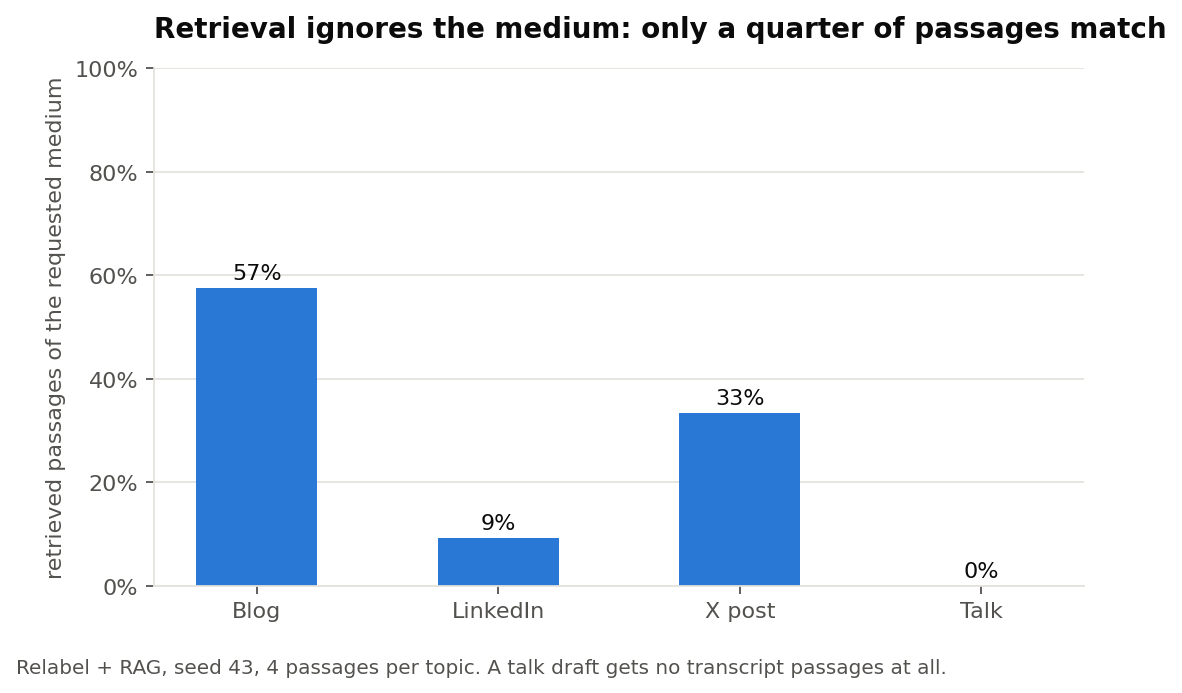
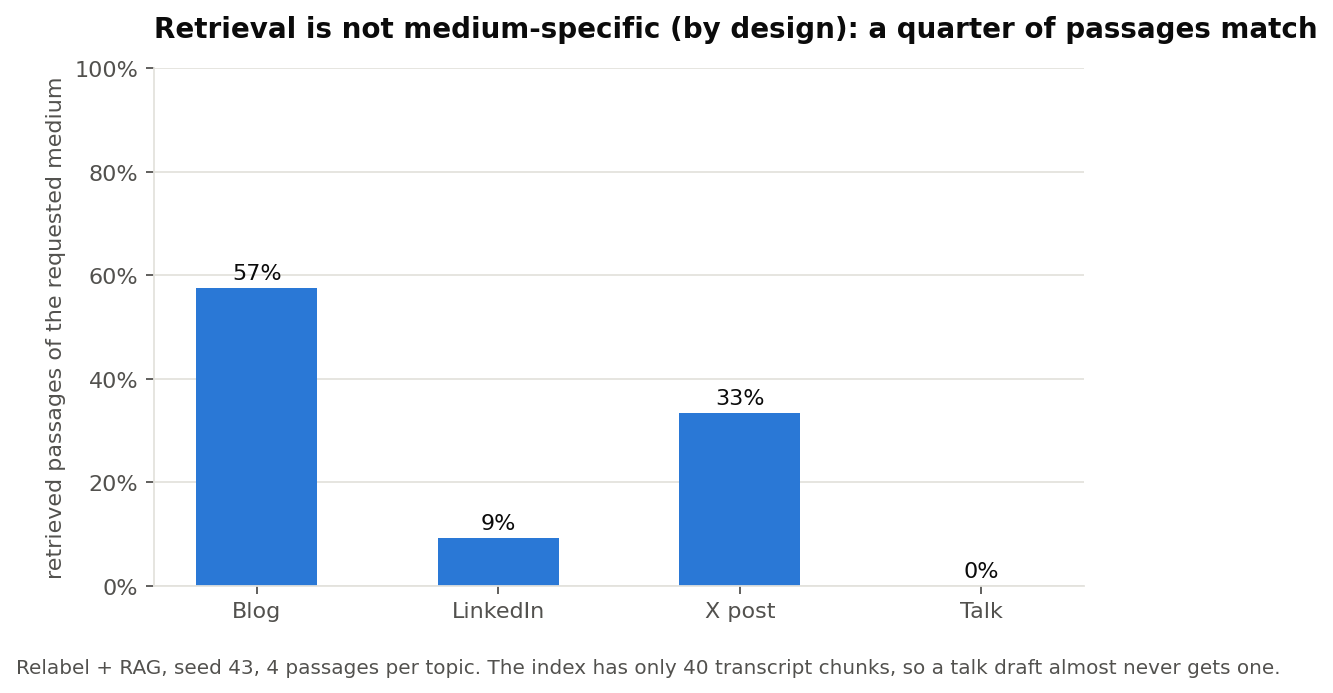
PUK-34: describe the medium mismatch as Kevin's design, not a weakness
Kevin's v1 retriever deliberately does not filter by the requested medium (the code
says factual evidence is the same top-k from the whole train-only collection, and our
saved run parameters record medium_filter false). RAG v2 has the same documents and
identical top-4 rankings, with no medium filter either. His own audit
(EXP-20261004-009) shows the same mix we measured.

The page, report footnotes, chart title and a test now say that retrieval is not
medium-specific by design, that talk gets no transcript passages because the index holds
only 40 transcript chunks (blog 9,255, X 11,185, LinkedIn 713), and that the effect on
quality is untested. The "cheapest change targeting a weakness" wording is replaced by
the two readings of "type-specific RAG" (a medium filter on the retrieved facts, or the
existing medium-specific style examples) as experiments to run.

diff --git a/eval_tools/rag_effect.py b/eval_tools/rag_effect.py
@@ -241,9 +241,10 @@ def to_markdown(cost: list[dict], effect: dict, label_a: str, label_b: str) -> s
             lines.append(f"| {title} | " + " | ".join(cells) + " |")
         lines += [
             "",
-            "How to read the last two rows: retrieval here searches by topic only and ignores the requested medium, so every "
-            "medium of a topic gets the same passages. A low fit means a LinkedIn or X draft is grounded mostly in blog text, "
-            "and a talk draft gets no transcript passages at all.",
+            "How to read the last two rows: by design (Kevin's v1 retriever) retrieval searches by topic only and does not filter "
+            "by the requested medium, so every medium of a topic gets the same passages. A low fit means a LinkedIn or X draft is "
+            "grounded mostly in blog text. The index holds only 40 transcript chunks, so a talk draft almost never gets one. "
+            "A low fit is a description of that design, not by itself a defect.",
         ]
     return "\n".join(lines) + "\n"
 

diff --git a/docs/evaluation/figures/make_figures.py b/docs/evaluation/figures/make_figures.py
@@ -177,9 +177,9 @@ def passage_fit_figure(out: Path) -> None:
     ax.set_axisbelow(True)
     for side in ("top", "right"):
         ax.spines[side].set_visible(False)
-    ax.set_title("Retrieval ignores the medium: only a quarter of passages match", loc="left", fontsize=12.5,
+    ax.set_title("Retrieval is not medium-specific (by design): a quarter of passages match", loc="left", fontsize=12.5,
                  fontweight="bold", color=INK, pad=14)
-    fig.text(0.01, -0.02, "Relabel + RAG, seed 43, 4 passages per topic. A talk draft gets no transcript passages at all.",
+    fig.text(0.01, -0.02, "Relabel + RAG, seed 43, 4 passages per topic. The index has only 40 transcript chunks, so a talk draft almost never gets one.",
              fontsize=9, color=INK2)
     fig.savefig(out, dpi=160, bbox_inches="tight")
     plt.close(fig)

diff --git a/tests/test_rag_effect.py b/tests/test_rag_effect.py
@@ -211,7 +211,7 @@ def test_report_names_both_runs_and_says_how_to_read_the_fit_rows(tmp_path):
     assert "What On changed and what it cost, compared with Off" in text
     assert "counted once per topic" in text
     assert "Retrieved passages that fit the requested medium" in text
-    assert "ignores the requested medium" in text
+    assert "does not filter by the requested medium" in text
 
 
 def test_report_without_retrieval_has_no_retrieval_section():

diff --git a/docs/evaluation/RAG_BEFORE_AFTER.md b/docs/evaluation/RAG_BEFORE_AFTER.md
@@ -7,7 +7,7 @@ The Linear task has no written description, so the scope here (a defined metric 
 ## The short answer
 
 1. **RAG makes the prompt about five times longer** (70 to 360 tokens) and adds about **28 to 33 seconds of evidence extraction per topic** (14 to 17 minutes for the 30 topics, about 8 seconds per draft). It does **not** change how much the model writes: draft length and the share of drafts that hit the length limit show no clear change.
-2. **Retrieval ignores the requested medium.** Only about 25% of retrieved passages are of the medium that was asked for: 57% for blogs, 33% for X, 9% for LinkedIn and **0% for talks**. Retrieval searches by topic only, so a LinkedIn or talk draft is grounded mostly in blog and X passages.
+2. **Retrieval is not medium-specific, and that is Kevin's design.** His v1 retriever fetches factual evidence from the whole index once per topic and shares it across the four mediums (his own audit, `EXP-20261004-009`, shows the same mix we measured). As a result only about 25% of retrieved passages are of the medium that was asked for: 57% for blogs, 33% for X, 9% for LinkedIn and **0% for talks**. Talk gets none because the index holds only **40 transcript chunks** (out of 21,193: blog 9,255, X 11,185, LinkedIn 713). Whether this matters for quality has not been tested.
 3. **About half of the RAG drafts contain numbers the evidence does not support** (47% to 55%). Copying a retrieved passage is rare (2% to 3%), and 80% to 82% of the claims the model proposed survive verification.
 4. **Put with PUK-28: in this setup RAG adds cost and shows no measurable benefit on our metrics.** The quality side showed no consistent change (writing quality, task adherence, stance), and the small blog voice drop mostly disappears at equal length.
 
@@ -66,11 +66,11 @@ The base run and the PersonaRAG run were made through Ollama, which does not sav
 - **The unsupported-number rate is a diagnostic, not a verdict.** In `METRIC_MAP.md` (gaps G5 and G6) the number check flags about half of the drafts while the claim judge says 99% of claims are supported, so the two truth checks disagree. And there is no "before" value, because a draft without retrieval has no evidence to compare against.
 - **Seed 42 used different hardware** than seeds 43 and 44, which affects the evidence seconds and a little of the evidence text.
 - **"No measurable benefit" is about our metrics and this panel.** Thirty topics is a development panel, and our metrics do not measure factual accuracy against the outside world.
-- **The medium mismatch is measured, not yet tested as a cause.** We have not run retrieval filtered by medium, so we cannot say how much quality it would recover.
+- **The medium mismatch is by design, and its effect is untested.** Kevin's pipeline deliberately does not filter by medium (the facts are meant to be shared). We have not run retrieval filtered by medium, so we cannot say whether it would help, and the small LinkedIn (713) and talk (40) pools suggest the passages could become less relevant, not more.
 
 ## A concrete next step (not done here)
 
-Retrieval searches by topic only. Trying it with a medium filter (blog passages for a blog draft, transcripts for a talk) is the cheapest change that targets a measured weakness. It is a pipeline change, so it belongs with Kevin or Andreah. If they try it, `eval_tools.rag_effect` and `eval_tools.compare` will show whether it helped.
+Kevin asked us to try "type-specific RAG". That can mean two things: filtering the retrieved facts by the requested medium (a small patch to his retriever, which currently ignores the medium on purpose), or giving medium-specific style examples (his `--fixed-style` option, off by default, which has two fixed examples each for blog, LinkedIn and X and none for talk). Either is an experiment to run, not a known fix. `eval_tools.rag_effect` (passage fit, distance, cost) and `eval_tools.compare` (quality) will show whether it helped, and they should also show whether the small pools make the filtered passages less relevant.
 
 ## How to rebuild every number
 

diff --git a/docs/evaluation/examples/rag_effect/relabel_seed42.md b/docs/evaluation/examples/rag_effect/relabel_seed42.md
@@ -48,4 +48,4 @@ Differences are Relabel RAG on (seed 42) minus Relabel RAG off (seed 42), paired
 | Retrieved passages that fit the requested medium | 25% | 57% | 10% | 32% | 0% |
 | Mean passage distance (lower is closer) | 0.243 | 0.243 | 0.243 | 0.243 | 0.243 |
 
-How to read the last two rows: retrieval here searches by topic only and ignores the requested medium, so every medium of a topic gets the same passages. A low fit means a LinkedIn or X draft is grounded mostly in blog text, and a talk draft gets no transcript passages at all.
+How to read the last two rows: by design (Kevin's v1 retriever) retrieval searches by topic only and does not filter by the requested medium, so every medium of a topic gets the same passages. A low fit means a LinkedIn or X draft is grounded mostly in blog text. The index holds only 40 transcript chunks, so a talk draft almost never gets one. A low fit is a description of that design, not by itself a defect.

diff --git a/docs/evaluation/examples/rag_effect/base_vs_personarag.md b/docs/evaluation/examples/rag_effect/base_vs_personarag.md
@@ -28,4 +28,4 @@ Differences are PersonaRAG (base + retrieval) minus Base Llama 3.1 (no retrieval
 | Retrieved passages that fit the requested medium | 25% | 57% | 9% | 33% | 0% |
 | Mean passage distance (lower is closer) | 0.243 | 0.243 | 0.243 | 0.243 | 0.243 |
 
-How to read the last two rows: retrieval here searches by topic only and ignores the requested medium, so every medium of a topic gets the same passages. A low fit means a LinkedIn or X draft is grounded mostly in blog text, and a talk draft gets no transcript passages at all.
+How to read the last two rows: by design (Kevin's v1 retriever) retrieval searches by topic only and does not filter by the requested medium, so every medium of a topic gets the same passages. A low fit means a LinkedIn or X draft is grounded mostly in blog text. The index holds only 40 transcript chunks, so a talk draft almost never gets one. A low fit is a description of that design, not by itself a defect.

diff --git a/docs/evaluation/examples/rag_effect/relabel_seed43.md b/docs/evaluation/examples/rag_effect/relabel_seed43.md
@@ -48,4 +48,4 @@ Differences are Relabel RAG on (seed 43) minus Relabel RAG off (seed 43), paired
 | Retrieved passages that fit the requested medium | 25% | 57% | 9% | 33% | 0% |
 | Mean passage distance (lower is closer) | 0.243 | 0.243 | 0.243 | 0.243 | 0.243 |
 
-How to read the last two rows: retrieval here searches by topic only and ignores the requested medium, so every medium of a topic gets the same passages. A low fit means a LinkedIn or X draft is grounded mostly in blog text, and a talk draft gets no transcript passages at all.
+How to read the last two rows: by design (Kevin's v1 retriever) retrieval searches by topic only and does not filter by the requested medium, so every medium of a topic gets the same passages. A low fit means a LinkedIn or X draft is grounded mostly in blog text. The index holds only 40 transcript chunks, so a talk draft almost never gets one. A low fit is a description of that design, not by itself a defect.

diff --git a/docs/evaluation/examples/rag_effect/relabel_seed44.md b/docs/evaluation/examples/rag_effect/relabel_seed44.md
@@ -48,4 +48,4 @@ Differences are Relabel RAG on (seed 44) minus Relabel RAG off (seed 44), paired
 | Retrieved passages that fit the requested medium | 25% | 57% | 9% | 33% | 0% |
 | Mean passage distance (lower is closer) | 0.243 | 0.243 | 0.243 | 0.243 | 0.243 |
 
-How to read the last two rows: retrieval here searches by topic only and ignores the requested medium, so every medium of a topic gets the same passages. A low fit means a LinkedIn or X draft is grounded mostly in blog text, and a talk draft gets no transcript passages at all.
+How to read the last two rows: by design (Kevin's v1 retriever) retrieval searches by topic only and does not filter by the requested medium, so every medium of a topic gets the same passages. A low fit means a LinkedIn or X draft is grounded mostly in blog text. The index holds only 40 transcript chunks, so a talk draft almost never gets one. A low fit is a description of that design, not by itself a defect.
